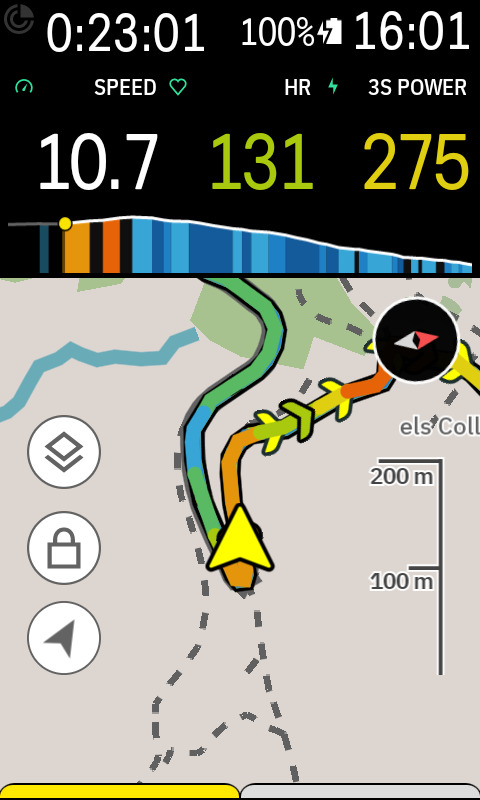
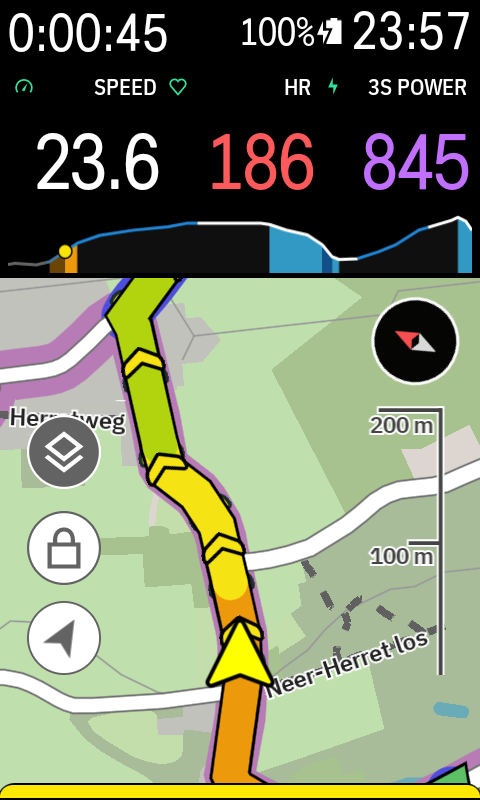
docs: hero shot on the Molenberg with the grade map

diff --git a/README.md b/README.md
@@ -13,11 +13,11 @@ Barberfish fields sit alongside the native ones, match their look, and quietly a
 
 <table>
   <tr>
-    <td align="center">Elevation profile below a 3-column HUD on the map view</td>
+    <td align="center">Grade map and elevation profile below a 3-column HUD, on the Molenberg</td>
     <td align="center">A full page of Barberfish fields, from the HUD to the route overview</td>
   </tr>
   <tr>
-    <td align="center"><img src="docs/screenshots/hud_sparkline.jpg" alt="3-column HUD with elevation profile over the map view"></td>
+    <td align="center"><img src="docs/screenshots/hud_sparkline.jpg" alt="Map page with a 3-column HUD, the elevation profile, and the route drawn as a grade-colored band with chevrons up the Molenberg"></td>
     <td align="center"><img src="docs/screenshots/barberfish_fields.jpg" alt="Data page with 3-column HUD, elevation profile, zone-colored grade, elapsed time, both average speeds, route overview, and ride remaining"></td>
   </tr>
 </table>

diff --git a/docs/gallery.md b/docs/gallery.md
@@ -12,7 +12,7 @@ Slots, columns, and the profile modes are set per field in the Barberfish app ([
     <td align="center">HUD config with the Power column tapped to set its smoothing and zone color</td>
   </tr>
   <tr>
-    <td align="center" valign="top"><img src="screenshots/hud_sparkline.jpg" alt="3-column HUD with elevation profile over the map view"></td>
+    <td align="center" valign="top"><img src="screenshots/hud_sparkline.jpg" alt="Map page with a 3-column HUD, the elevation profile, and the route drawn as a grade-colored band with chevrons up the Molenberg"></td>
     <td align="center" valign="top"><img src="screenshots/hud_config.jpg" alt="HUD config screen with a 4-column preview, the Power column selected, and its data field, smoothing, and zone color options below"></td>
   </tr>
 </table>
